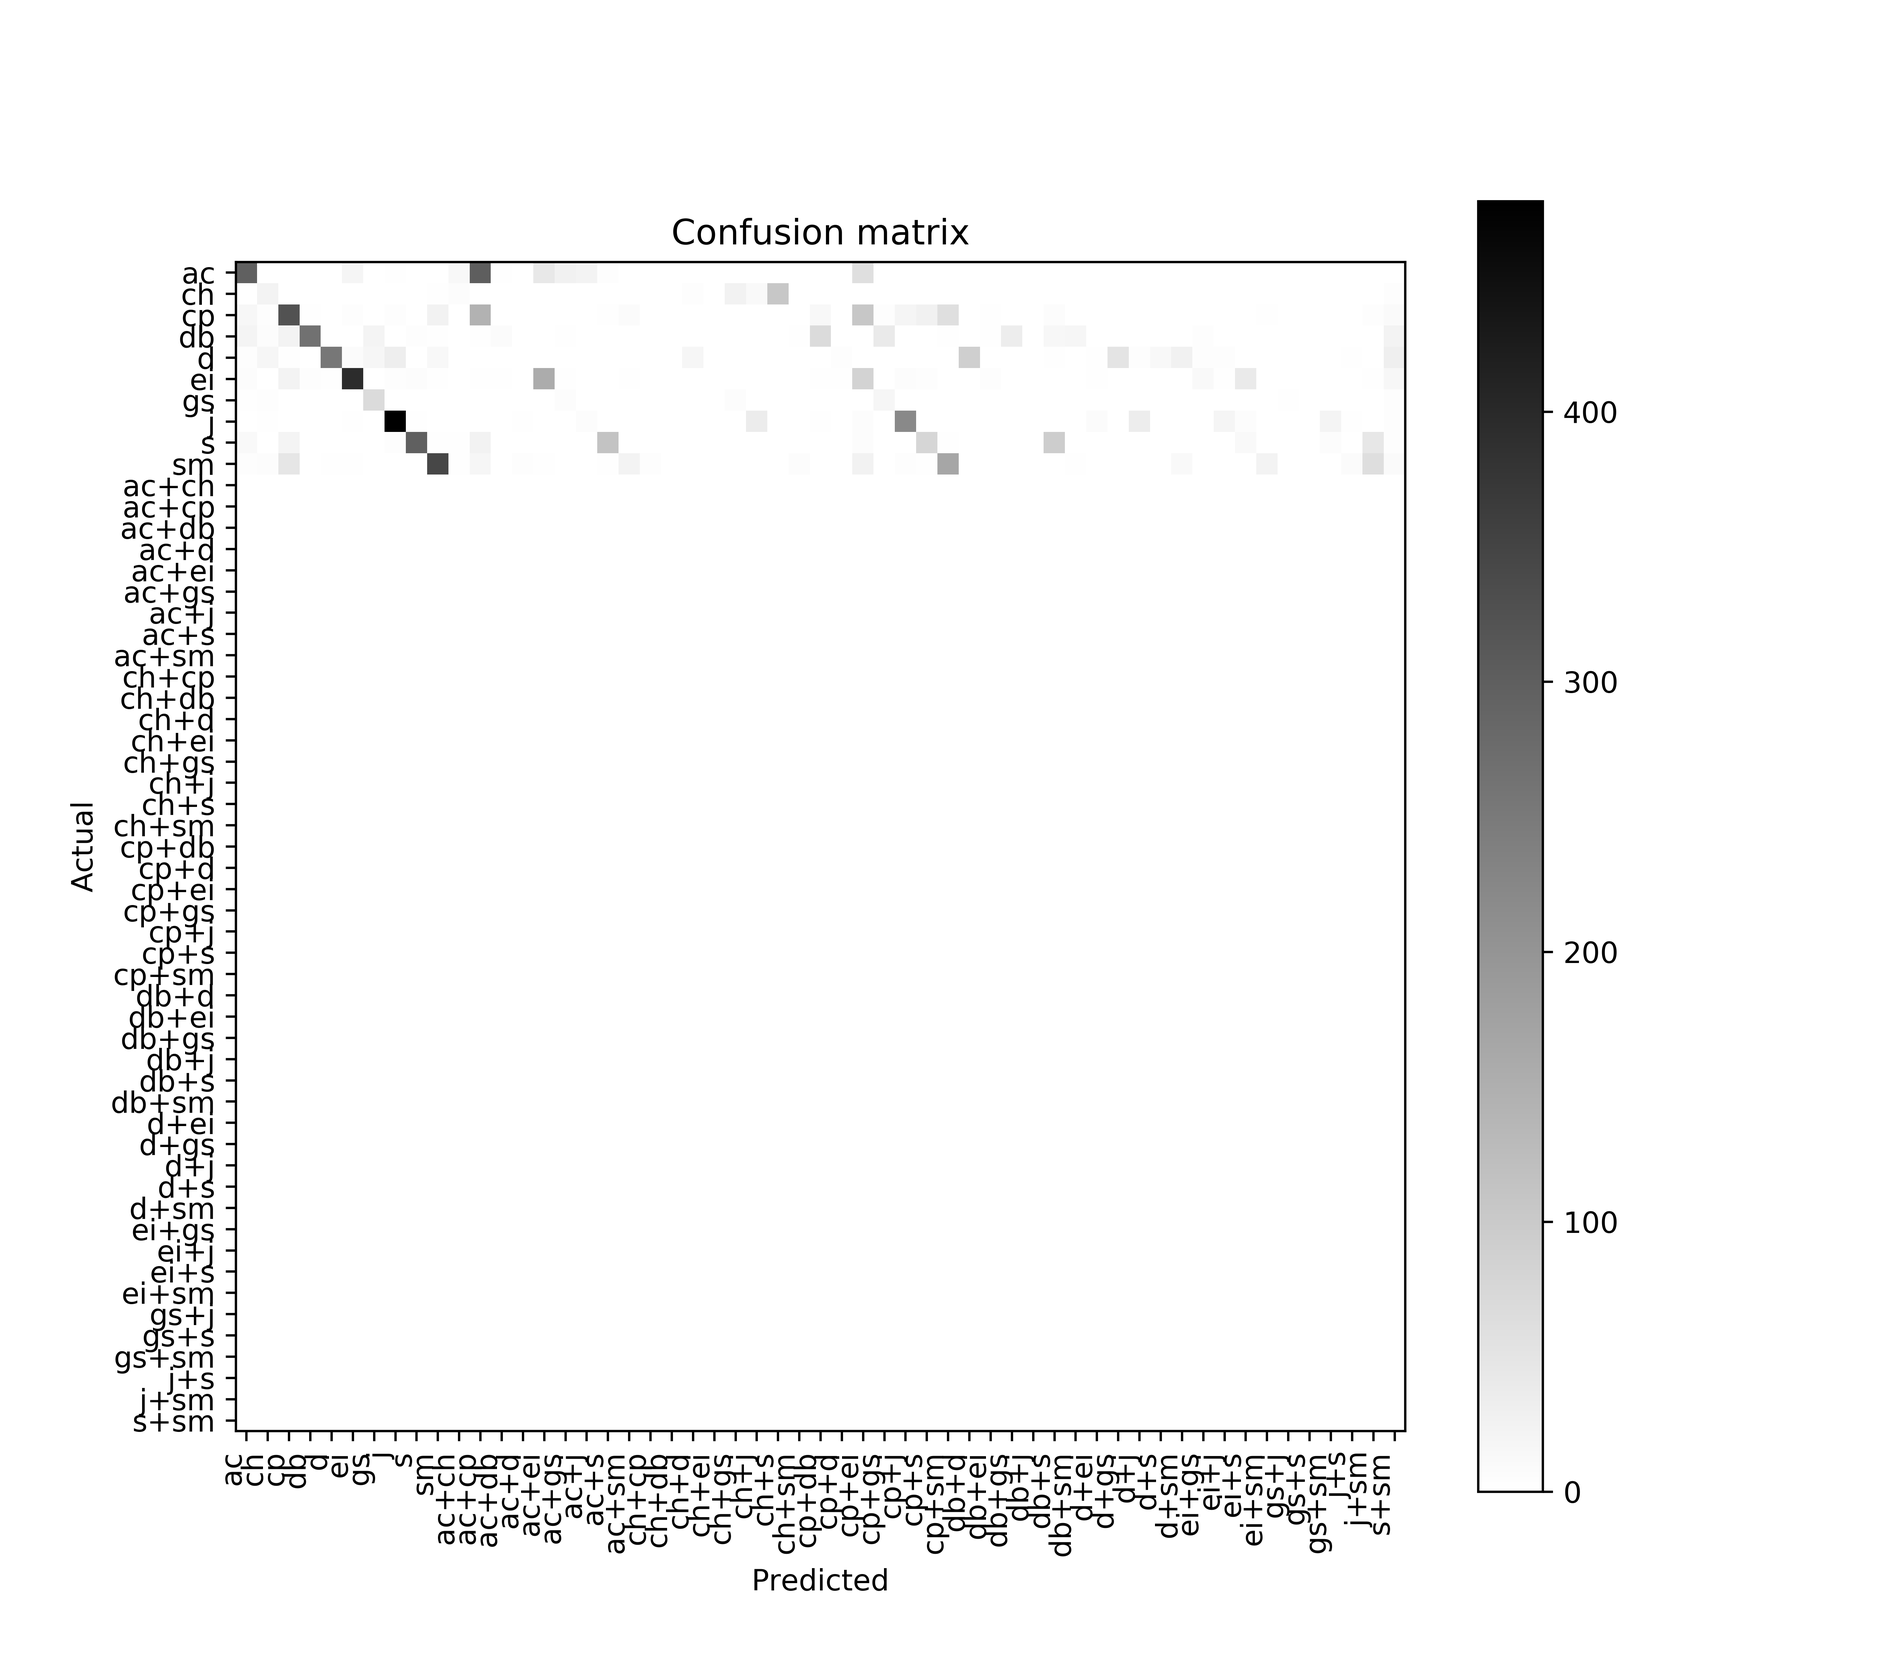
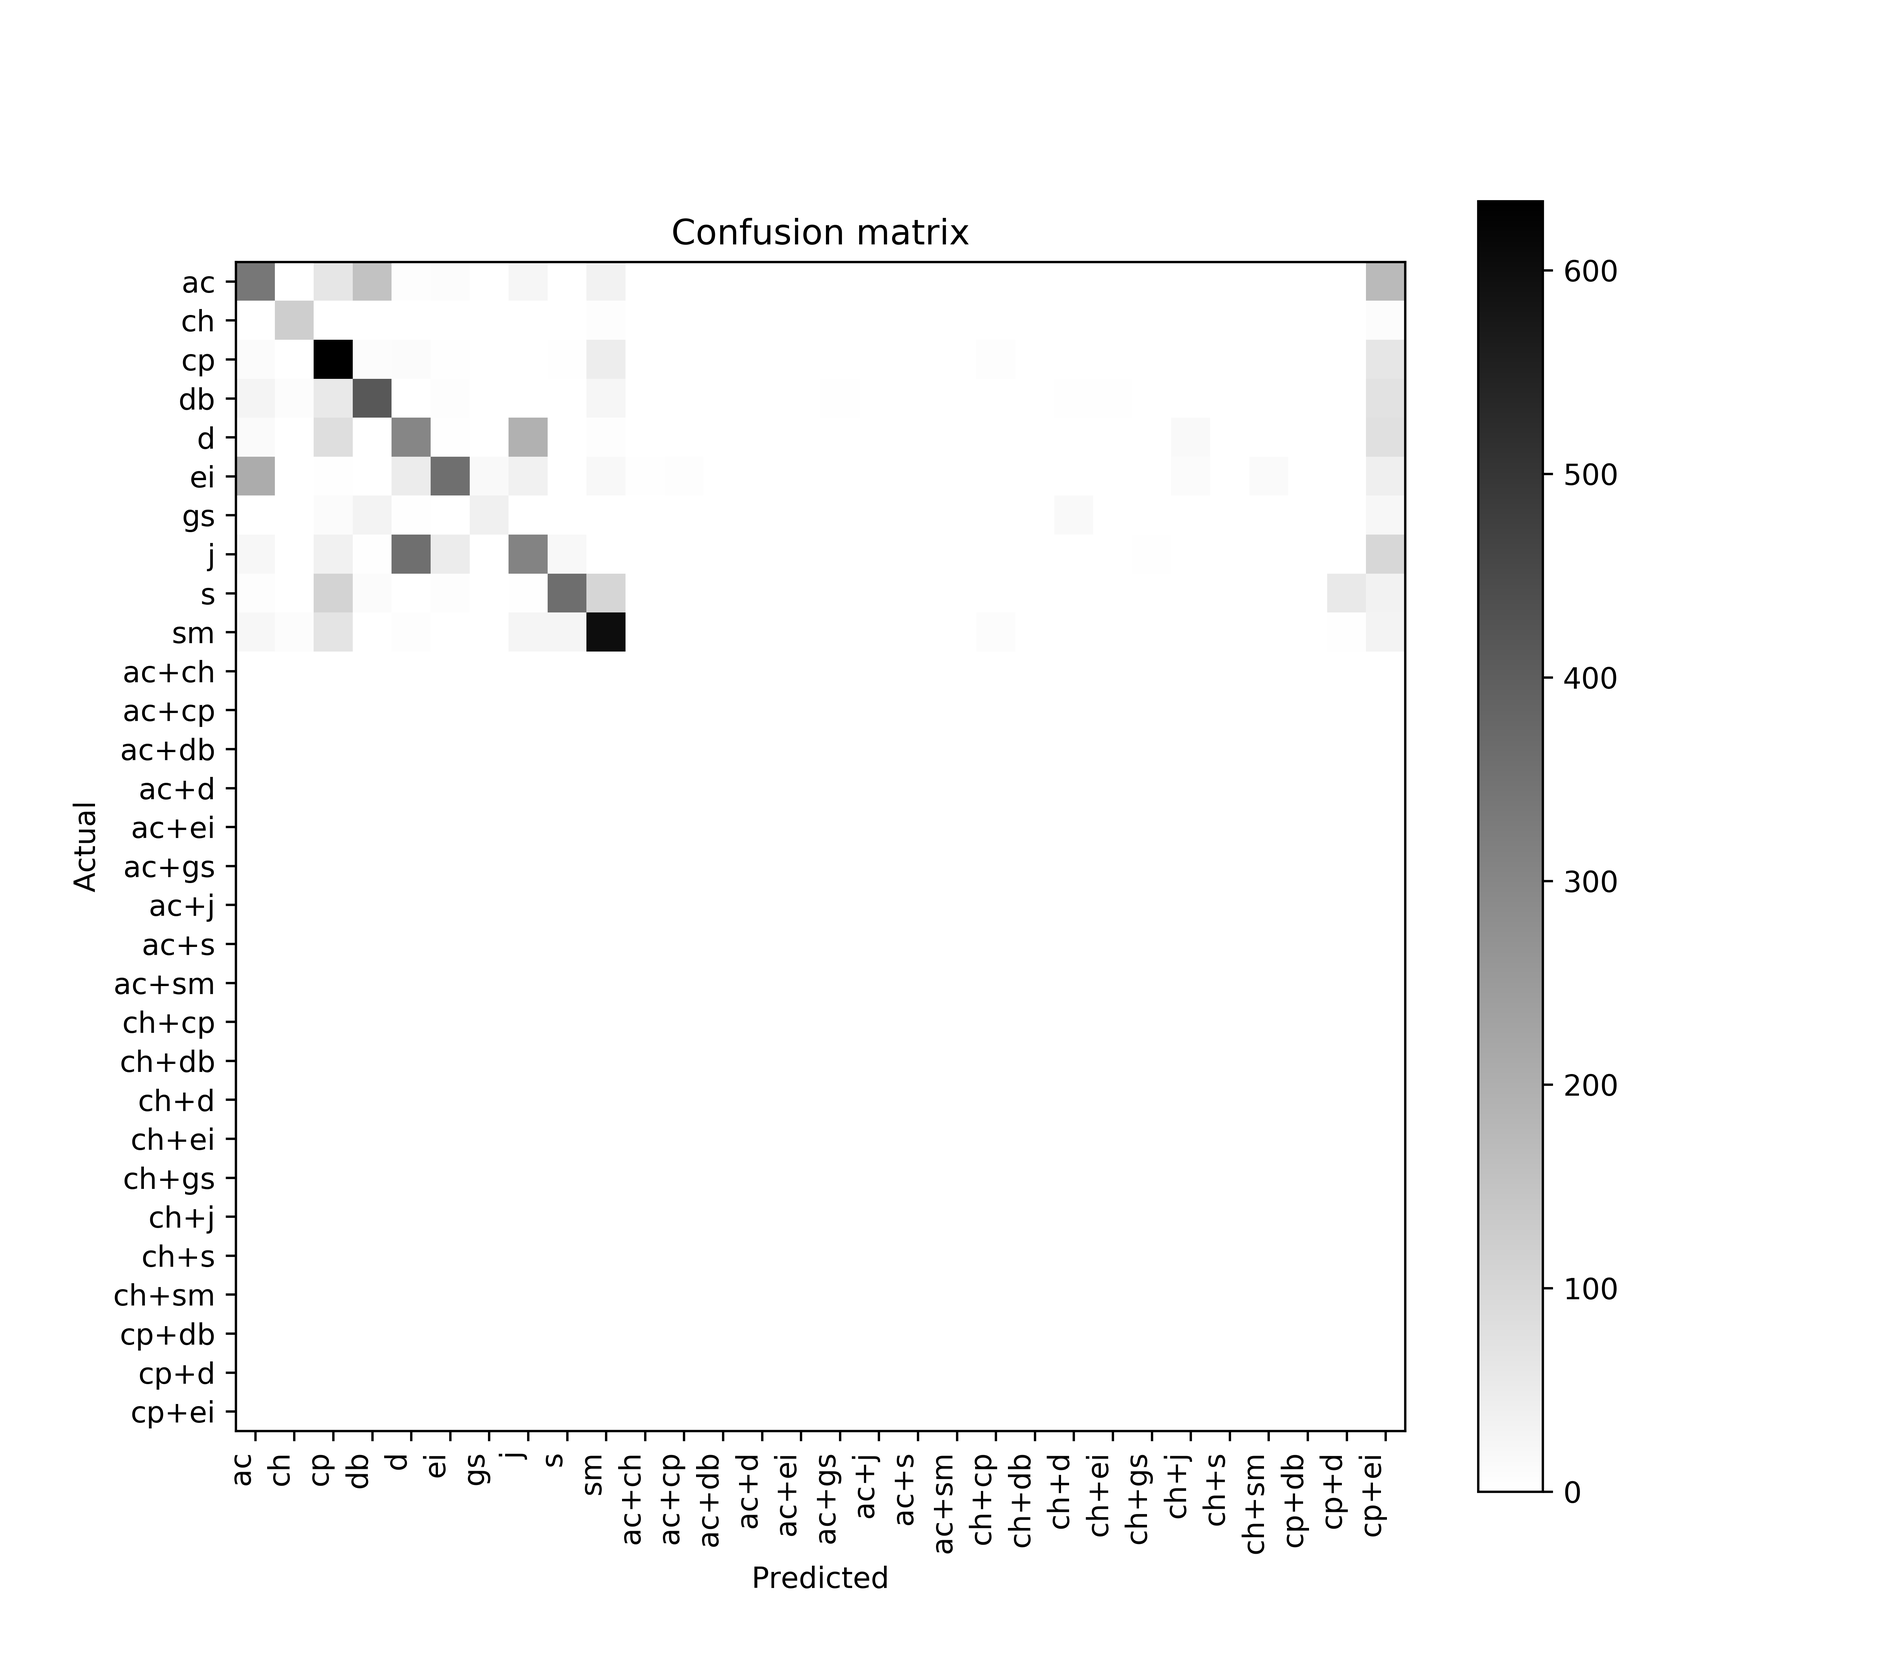
Implemented the cross-validation method for multilabel

diff --git a/train_models.py b/train_models.py
@@ -1,49 +1,50 @@
 from preprocessor import preprocessor
 from keras_models import piczak_CNN, piczak_CNN_Salik
 from keras_models import piczak_mod_CNN
-from keras.callbacks import TensorBoard
+from keras.callbacks import TensorBoard, EarlyStopping
 from sklearn import metrics
 from keras.models import load_model
 import numpy as np
 import pandas as pd
 import utils
 import sklearn.metrics
-from sklearn.metrics import f1_score,hamming_loss, zero_one_loss
+from sklearn.metrics import f1_score, hamming_loss, zero_one_loss
 import matplotlib.pyplot as plt
 from pandas_confusion import ConfusionMatrix
+import keras.backend as K
 
-
-classes2 = ['air_conditioner', 'car_horn', 'children_playing', 'dog_bark', 'drilling', 'engine_idling', 'gun_shot', 'jackhammer', 'siren', 'street_music',
-		   'air_conditioner+car_horn', 'air_conditioner+children_playing', 'air_conditioner+dog_bark',
-		   'air_conditioner+drilling', 'air_conditioner+engine_idling', 'air_conditioner+gun_shot',
-		   'air_conditioner+jackhammer', 'air_conditioner+siren', 'air_conditioner+street_music',
-		   'car_horn+children_playing',
-		   'car_horn+dog_bark', 'car_horn+drilling', 'car_horn+engine_idling', 'car_horn+gun_shot',
-		   'car_horn+jackhammer',
-		   'car_horn+siren', 'car_horn+street_music', 'children_playing+dog_bark', 'children_playing+drilling',
-		   'children_playing+engine_idling', 'children_playing+gun_shot', 'children_playing+jackhammer',
-		   'children_playing+siren', 'children_playing+street_music', 'dog_bark+drilling', 'dog_bark+engine_idling',
-		   'dog_bark+gun_shot', 'dog_bark+jackhammer', 'dog_bark+siren', 'dog_bark+street_music',
-		   'drilling+engine_idling', 'drilling+gun_shot', 'drilling+jackhammer', 'drilling+siren',
-		   'drilling+street_music', 'engine_idling+gun_shot', 'engine_idling+jackhammer', 'engine_idling+siren',
-		   'engine_idling+street_music', 'gun_shot+jackhammer', 'gun_shot+siren', 'gun_shot+street_music',
-		   'jackhammer+siren', 'jackhammer+street_music', 'siren+street_music']
+classes2 = ['air_conditioner', 'car_horn', 'children_playing', 'dog_bark', 'drilling', 'engine_idling', 'gun_shot',
+			'jackhammer', 'siren', 'street_music',
+			'air_conditioner+car_horn', 'air_conditioner+children_playing', 'air_conditioner+dog_bark',
+			'air_conditioner+drilling', 'air_conditioner+engine_idling', 'air_conditioner+gun_shot',
+			'air_conditioner+jackhammer', 'air_conditioner+siren', 'air_conditioner+street_music',
+			'car_horn+children_playing',
+			'car_horn+dog_bark', 'car_horn+drilling', 'car_horn+engine_idling', 'car_horn+gun_shot',
+			'car_horn+jackhammer',
+			'car_horn+siren', 'car_horn+street_music', 'children_playing+dog_bark', 'children_playing+drilling',
+			'children_playing+engine_idling', 'children_playing+gun_shot', 'children_playing+jackhammer',
+			'children_playing+siren', 'children_playing+street_music', 'dog_bark+drilling', 'dog_bark+engine_idling',
+			'dog_bark+gun_shot', 'dog_bark+jackhammer', 'dog_bark+siren', 'dog_bark+street_music',
+			'drilling+engine_idling', 'drilling+gun_shot', 'drilling+jackhammer', 'drilling+siren',
+			'drilling+street_music', 'engine_idling+gun_shot', 'engine_idling+jackhammer', 'engine_idling+siren',
+			'engine_idling+street_music', 'gun_shot+jackhammer', 'gun_shot+siren', 'gun_shot+street_music',
+			'jackhammer+siren', 'jackhammer+street_music', 'siren+street_music']
 
 single_classes = ['ac', 'ch', 'cp', 'db', 'd', 'ei', 'gs', 'j', 's', 'sm']
 combined_classes = ['ac+ch', 'ac+cp', 'ac+db',
-		   'ac+d', 'ac+ei', 'ac+gs',
-		   'ac+j', 'ac+s', 'ac+sm',
-		   'ch+cp',
-		   'ch+db', 'ch+d', 'ch+ei', 'ch+gs',
-		   'ch+j',
-		   'ch+s', 'ch+sm', 'cp+db', 'cp+d',
-		   'cp+ei', 'cp+gs', 'cp+j',
-		   'cp+s', 'cp+sm', 'db+d', 'db+ei',
-		   'db+gs', 'db+j', 'db+s', 'db+sm',
-		   'd+ei', 'd+gs', 'd+j', 'd+s',
-		   'd+sm', 'ei+gs', 'ei+j', 'ei+s',
-		   'ei+sm', 'gs+j', 'gs+s', 'gs+sm',
-		   'j+s', 'j+sm', 's+sm']
+					'ac+d', 'ac+ei', 'ac+gs',
+					'ac+j', 'ac+s', 'ac+sm',
+					'ch+cp',
+					'ch+db', 'ch+d', 'ch+ei', 'ch+gs',
+					'ch+j',
+					'ch+s', 'ch+sm', 'cp+db', 'cp+d',
+					'cp+ei', 'cp+gs', 'cp+j',
+					'cp+s', 'cp+sm', 'db+d', 'db+ei',
+					'db+gs', 'db+j', 'db+s', 'db+sm',
+					'd+ei', 'd+gs', 'd+j', 'd+s',
+					'd+sm', 'ei+gs', 'ei+j', 'ei+s',
+					'ei+sm', 'gs+j', 'gs+s', 'gs+sm',
+					'j+s', 'j+sm', 's+sm']
 classes = ['ac', 'ch', 'cp', 'db', 'd', 'ei', 'gs', 'j', 's', 'sm',
 		   'ac+ch', 'ac+cp', 'ac+db',
 		   'ac+d', 'ac+ei', 'ac+gs',
@@ -60,26 +61,28 @@ classes = ['ac', 'ch', 'cp', 'db', 'd', 'ei', 'gs', 'j', 's', 'sm',
 		   'ei+sm', 'gs+j', 'gs+s', 'gs+sm',
 		   'j+s', 'j+sm', 's+sm', 'xxx']
 
-dic_tot= {}
+dic_tot = {}
+
 
 def classes_number_mapper():
 	dic_single_classes = {}
-	#dic_tot = {}
+	# dic_tot = {}
 	x = 0
 	for s in single_classes:
-		dic_single_classes[s] = x+1
+		dic_single_classes[s] = x + 1
 		x += 1
-	for n in range(0,10):
-		dic_tot[n+1] = n
+	for n in range(0, 10):
+		dic_tot[n + 1] = n
 	x = 10
 	for s in combined_classes:
 		splitted_s = s.split("+")
 		t1 = dic_single_classes[splitted_s[0]]
 		t2 = dic_single_classes[splitted_s[1]]
-		t_comb = int(str(t1)+str(t2))
+		t_comb = int(str(t1) + str(t2))
 		dic_tot[t_comb] = x
 		x += 1
 	dic_tot[1000000] = x
+
 
 train_dirs = []
 save_dir = '../../data/UrbanSound8K/extracted_long_just_overlap'
@@ -132,7 +135,6 @@ def from_plus_to_one_hot(pred_labels):
 
 def train_keras_cnn(epochs=25, output_model_file="./piczak_model_fold1_only.h5",
 					output_predictions_file="./test.csv"):
-
 	pp = preprocessor(parent_dir='../UrbanSound8K/audio')
 	print("Loading the data...")
 
@@ -141,9 +143,9 @@ def train_keras_cnn(epochs=25, output_model_file="./piczak_model_fold1_only.h5",
 	# train_dirs = ["audio_overlap/folder1_overlap", "audio_overlap/folder2_overlap", "audio_overlap/folder3_overlap", "audio_overlap/folder4_overlap", "audio_overlap/folder5_overlap", "audio_overlap/folder6_overlap", "audio_overlap/folder7_overlap", "audio_overlap/folder8_overlap", "audio_overlap/folder9_overlap","audio_overlap/folder10_overlap"]
 
 	# SINGLE LABEL
-	train_dirs = ["fold1","fold2","fold3","fold4","fold5","fold6","fold7","fold8","fold9","fold10"]
+	train_dirs = ["fold1", "fold2", "fold3", "fold4", "fold5", "fold6", "fold7", "fold8", "fold9", "fold10"]
 	pp.data_prep(train_dirs=train_dirs, load_path="../UrbanSound8K/audio/extracted_short_60")
-	#pp.data_prep(train_dirs=train_dirs, load_path=save_dir)
+	# pp.data_prep(train_dirs=train_dirs, load_path=save_dir)
 
 	tb = TensorBoard(log_dir='./TensorBoard/piczak_CNN_singlelabel')
 
@@ -151,7 +153,7 @@ def train_keras_cnn(epochs=25, output_model_file="./piczak_model_fold1_only.h5",
 	model = piczak_CNN(input_dim=pp.train_x[0].shape, output_dim=pp.train_y.shape[1])
 
 	print("model fitting")
-	model.fit(pp.train_x, pp.train_y,validation_split=.1, epochs=epochs,
+	model.fit(pp.train_x, pp.train_y, validation_split=.1, epochs=epochs,
 			  batch_size=256, verbose=2, callbacks=[tb])
 
 	print("model evaluation")
@@ -159,9 +161,11 @@ def train_keras_cnn(epochs=25, output_model_file="./piczak_model_fold1_only.h5",
 	print("loss: {0}, test-acc: {1}".format(scores[0], scores[1]))
 
 	print("Writing test predictions to csv file : {0}".format(output_predictions_file))
+
 	def write_preds(preds, fname):
-		#y_pred.argmax(1)
-		pd.DataFrame({"Predictions": preds, "Actual": np.array(pp.test_y).argmax(1)}).to_csv(fname, index=False, header=True)
+		# y_pred.argmax(1)
+		pd.DataFrame({"Predictions": preds, "Actual": np.array(pp.test_y).argmax(1)}).to_csv(fname, index=False,
+																							 header=True)
 
 	preds = model.predict(pp.test_x)
 
@@ -171,33 +175,33 @@ def train_keras_cnn(epochs=25, output_model_file="./piczak_model_fold1_only.h5",
 	preds[preds >= 0.5] = 1
 	preds[preds < 0.5] = 0
 
-	np.savetxt("truelabels.txt",np.array(pp.test_y))
+	np.savetxt("truelabels.txt", np.array(pp.test_y))
 	np.savetxt("writepreds.txt", np.array(preds))
-	#write_preds(preds, output_predictions_file)
+	# write_preds(preds, output_predictions_file)
 	print("F1 SCORE:")
-	print(f1_score(pp.test_y,preds,average=None))
+	print(f1_score(pp.test_y, preds, average=None))
 
 	print("Hamming Loss:")
-	print(hamming_loss(pp.test_y,preds))
+	print(hamming_loss(pp.test_y, preds))
 	print("Zero-one loss:")
-	print(zero_one_loss(pp.test_y,preds))
+	print(zero_one_loss(pp.test_y, preds))
 
-	#write_preds(preds, output_predictions_file)
-	#confusion_matrix = metrics.confusion_matrix(np.argmax(pp.test_y, axis=1), preds)
-	#utils.plot_confusion_matrix(confusion_matrix, classes)
+	# write_preds(preds, output_predictions_file)
+	# confusion_matrix = metrics.confusion_matrix(np.argmax(pp.test_y, axis=1), preds)
+	# utils.plot_confusion_matrix(confusion_matrix, classes)
 
 
-	#confusion_matrix = metrics.confusion_matrix(np.argmax(pp.test_y, axis=1), preds)
-	#utils.plot_confusion_matrix(confusion_matrix, classes)
+	# confusion_matrix = metrics.confusion_matrix(np.argmax(pp.test_y, axis=1), preds)
+	# utils.plot_confusion_matrix(confusion_matrix, classes)
 
-	#I reach here in plus_one_hot_encode, I want to transform it in one hot
+	# I reach here in plus_one_hot_encode, I want to transform it in one hot
 	y_test_preds = from_plus_to_one_hot(np.array(pp.test_y))
 	preds_transf = from_plus_to_one_hot(np.array(preds))
 
 	cm = ConfusionMatrix(np.array(y_test_preds).argmax(1), np.array(preds_transf).argmax(1))
 	print(cm)
 
-	plt.figure(figsize=(64,32))
+	plt.figure(figsize=(64, 32))
 	ax = cm.plot()
 
 	ax.set_xticklabels(classes, rotation="vertical")
@@ -211,12 +215,15 @@ def train_keras_cnn(epochs=25, output_model_file="./piczak_model_fold1_only.h5",
 def evaluateSavedModel():
 	model = load_model("saved/Piczak_CNN_pretrainsingle_trainmulti.h5")
 	pp = preprocessor(parent_dir='../UrbanSound8K/audio')
-	train_dirs = ["audio_overlap/folder1_overlap", "audio_overlap/folder2_overlap", "audio_overlap/folder3_overlap", "audio_overlap/folder4_overlap", "audio_overlap/folder5_overlap", "audio_overlap/folder6_overlap", "audio_overlap/folder7_overlap", "audio_overlap/folder8_overlap", "audio_overlap/folder9_overlap","audio_overlap/folder10_overlap"]
+	train_dirs = ["audio_overlap/folder1_overlap", "audio_overlap/folder2_overlap", "audio_overlap/folder3_overlap",
+				  "audio_overlap/folder4_overlap", "audio_overlap/folder5_overlap", "audio_overlap/folder6_overlap",
+				  "audio_overlap/folder7_overlap", "audio_overlap/folder8_overlap", "audio_overlap/folder9_overlap",
+				  "audio_overlap/folder10_overlap"]
 
-	pp.data_prep(train_dirs=[],test_fold="fold2", load_path="../UrbanSound8K/audio/extracted_short_60/")
+	pp.data_prep(train_dirs=[], test_fold="fold2", load_path="../UrbanSound8K/audio/extracted_short_60/")
 
 	tb = TensorBoard(log_dir='./TensorBoard/piczak_CNN_singlelabel_pretrain_continue_multilabel')
-	#model.fit(pp.train_x, pp.train_y,validation_split=.1, epochs=25,
+	# model.fit(pp.train_x, pp.train_y,validation_split=.1, epochs=25,
 	#		  batch_size=256, verbose=2, callbacks=[tb])
 
 
@@ -225,34 +232,80 @@ def evaluateSavedModel():
 	scores = model.evaluate(pp.test_x, pp.test_y, verbose=0)
 	print("loss: {0}, test-acc: {1}".format(scores[0], scores[1]))
 
-
 	preds = model.predict(pp.test_x)
 
+	evaluateModel(pp, preds)
+
+
+def evaluateModel(pp, preds):
 	# ************ PROCESSING THE PREDICTIONS
 	preds[preds >= 0.5] = 1
 	preds[preds < 0.5] = 0
-
 	print("F1 SCORE:")
-	print(f1_score(pp.test_y,preds,average=None))
-
+	print(f1_score(pp.test_y, preds, average=None))
 	print("Hamming Loss:")
-	print(hamming_loss(pp.test_y,preds))
+	print(hamming_loss(pp.test_y, preds))
 	print("Zero-one loss:")
-	print(zero_one_loss(pp.test_y,preds))
-
-	#I reach here in plus_one_hot_encode, I want to transform it in one hot
+	print(zero_one_loss(pp.test_y, preds))
+	# I reach here in plus_one_hot_encode, I want to transform it in one hot
 	y_test_preds = from_plus_to_one_hot(np.array(pp.test_y))
 	preds_transf = from_plus_to_one_hot(np.array(preds))
-
 	cm = ConfusionMatrix(np.array(y_test_preds).argmax(1), np.array(preds_transf).argmax(1))
 	print(cm)
 	ax = cm.plot()
-
 	ax.set_xticklabels(classes, rotation="vertical")
 	ax.set_yticklabels(classes)
 	plt.savefig("cmpre.png")
 	plt.savefig("cm.png", dpi=600)
 
+
+
+
+# logging.basicConfig(filename='cv.log', filemode='w', level=logging.DEBUG)
+
+
+def piczac_cross_validation(epochs, load_path):
+	train_dirs = []
+
+	n_folders = 10
+
+	for i in range(1, n_folders + 1):
+		train_dirs.append('fold{0}'.format(i))
+
+	print(train_dirs)
+	for fold in [(10, 1)]:
+		val_fold = 'fold{0}'.format(fold[0])
+		test_fold = 'fold{0}'.format(fold[1])
+		train_dirs.remove(val_fold)
+		train_dirs.remove(test_fold)
+
+		pp = preprocessor(parent_dir='../UrbanSound8K/audio')
+		pp.data_prep(load_path=load_path, train_dirs=train_dirs, val_fold=val_fold, test_fold=test_fold)
+
+		model = piczak_CNN(input_dim=pp.train_x[0].shape, output_dim=pp.train_y.shape[1])
+
+
+		#model = load_model('Models/short60_300_{0}.h5'.format(str(fold)))
+
+
+
+
+		tb = TensorBoard(log_dir='./TensorBoard/' + 'overlap_run{0}'.format(fold[1]))
+		es = EarlyStopping(patience=10, verbose=1)
+
+		model.fit(pp.train_x, pp.train_y, validation_data=[pp.val_x, pp.val_y], epochs=epochs,
+				  batch_size=1000, verbose=2, callbacks=[tb, es])
+
+
+		preds = model.predict(pp.test_x)
+		evaluateModel(pp,preds)
+
+		K.clear_session()
+
+		train_dirs.append(val_fold)
+		train_dirs.append(test_fold)
+	# val_fold = 'fold' + str(folds[0])
+	# test_fold= 'fold' + str(folds[1])
 
 
 if __name__ == '__main__':
@@ -261,5 +314,6 @@ if __name__ == '__main__':
 	print(dic_tot)
 	for i in sorted(dic_tot.keys()):
 		print(i, dic_tot[i])
-	#train_keras_cnn()
-	evaluateSavedModel()
+	# train_keras_cnn()
+	#evaluateSavedModel()
+	piczac_cross_validation(25, "../UrbanSound8K/audio/extracted_short_60")

diff --git a/preprocessor.py b/preprocessor.py
@@ -23,6 +23,9 @@ class preprocessor(object):
 		self.train_y = []
 		self.test_x = []
 		self.test_y = []
+		self.val_x = []
+		self.val_y = []
+
 
 	def split_sound_into_segments(self, file_name, segment_size, overlap):
 		"""
@@ -164,7 +167,7 @@ class preprocessor(object):
 
 		return train_x, train_y, test_x, test_y
 
-	def data_prep(self, train_dirs, test_fold='', segment_size=20480, overlap=0.5, bands=60, frames=41, file_ext="*.wav",
+	def data_prep(self, train_dirs, test_fold='', val_fold='', segment_size=20480, overlap=0.5, bands=60, frames=41, file_ext="*.wav",
 				  save_path='', load_path=''):
 		"""
 		Data prep loads all the sound files in train_dirs, then it splits them into segments of segment_size,
@@ -211,6 +214,9 @@ class preprocessor(object):
 			self.y = self.plus_one_hot_encode(labels_total)
 			#self.y = self.one_hot_encode(np.array(labels_total, dtype=np.int))
 			self.X = np.array(X_total)
+		if val_fold:
+			self.val_x = np.load(load_path + '/' + val_fold + '/features.npy')
+			self.val_y = np.load(load_path + '/' + val_fold + '/labels.npy')
 
 		if test_fold:
 			self.train_x, self.train_y = self.X, self.y
@@ -219,12 +225,14 @@ class preprocessor(object):
 		else:
 			self.train_x, self.train_y, self.test_x, self.test_y = self.get_train_test_split()
 
-		X_mean = np.mean(self.X, axis=0)
-		X_std = np.std(self.X, axis=0)
+		X_mean = np.mean(self.train_x, axis=0)
+		X_std = np.std(self.train_x, axis=0)
 		#self.X = (self.X - X_mean) / X_std
 		self.train_x = (self.train_x - X_mean) / X_std
-		self.test_x = (self.test_x - X_mean) / X_std
-		#self.val_x = (self.val_x - X_mean) / X_std
+		if test_fold:
+			self.test_x = (self.test_x - X_mean) / X_std
+		if val_fold:
+			self.val_x = (self.val_x - X_mean) / X_std
 
 
 if __name__ == '__main__':
